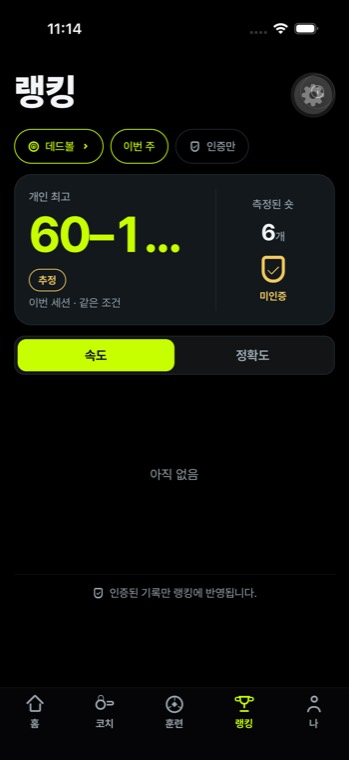
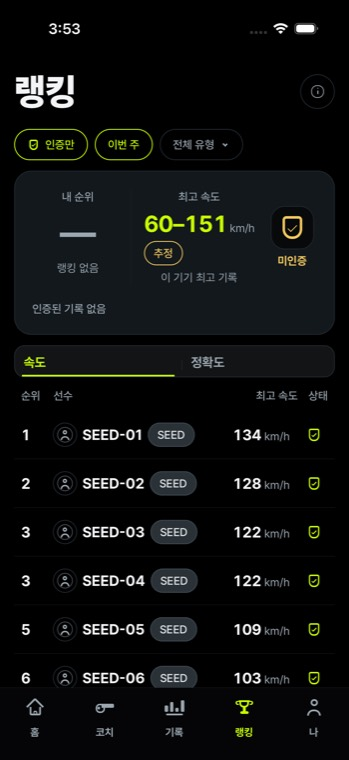
docs(stryke): final captures — seeded leaderboard live, static shot map proven, brand lockup
Build column refreshed to the 1 Sep 03:35-03:53 captures: the leaderboard now
renders nine seeded accounts from the real API with server tie-ranks verbatim
and a SEED label on every row; the shot map's camera stillness is pixel-proven
(0 of 929,500 scene pixels changed across four untouched seconds, and selection
moves the highlight while the camera holds). Adds the new brand lockup.

diff --git a/stryke/design.html b/stryke/design.html
@@ -57,7 +57,8 @@ footer{margin-top:60px;padding-top:18px;border-top:1px solid var(--line);color:v
 <p class="eyebrow">STRYKE · design targets vs the build</p>
 <h1>The <em>Design</em></h1>
 <p class="lede">The eight screens we are building toward, each next to what the app actually renders today. The gap is the point of the page — this is a working document, not a portfolio.</p>
-<p class="lede" style="font-size:13.5px;margin-top:14px">Build screenshots are unretouched simulator captures after <b>three rounds</b> of the design-QA loop, 31 Aug 2026. The score on each screen is that round's adversarial fidelity rating against its mockup. <b>Average 43/100, and not one screen passed.</b></p>
+<p class="lede" style="font-size:13.5px;margin-top:14px">Build screenshots refreshed <b>1 Sep 2026, 03:35&ndash;03:53</b> — after the clean-capture rescore (true average 49/100), a simulator-verified fix round, the static shot-map scene, and the leaderboard going live against the seeded API. Scores shown are the last adversarial ratings; captures are newer than the scores, so treat scores as a floor.</p>
+<div style="background:var(--panel);border:1px solid var(--line);border-radius:14px;padding:10px 14px;margin:14px 0"><img src="design/logo-lockup.jpg" alt="STRYKE lockup" style="display:block;width:100%;max-width:560px;height:auto;margin:0 auto"><p style="text-align:center;color:var(--mut);font-size:12px;margin:6px 0 2px">New brand lockup &mdash; the kit&rsquo;s ballistic trail and impact star promoted to the mark, set in Pretendard Black</p></div>
 
 <h2><span class="n">01</span>The colour system</h2>
 <p>Five colours, and that is the whole palette. The most important rule here is the last one: amber is not decoration.</p>
@@ -137,13 +138,14 @@ footer{margin-top:60px;padding-top:18px;border-top:1px solid var(--line);color:v
 </div>
 
 <div class="scr">
-<h3>06 · Rankings <span style="color:var(--mut);font-weight:400">랭킹</span> <span class="tag t-part">40/100</span></h3>
+<h3>06 · Rankings <span style="color:var(--mut);font-weight:400">랭킹</span> <span class="tag t-ok">live · seeded</span></h3>
 <div class="pair">
   <div class="shot"><div class="cap tgt">Target</div><img src="design/mock-06.jpg" alt="Rankings target"></div>
   <div class="shot"><div class="cap now">Build</div><img src="design/build-ranking.jpg" alt="Rankings build"></div>
 </div>
 <ul class="gaps">
-<li><b>상위 7% is cut and stays cut.</b> A percentile is a claim about a population; a rank is a fact about an ordered list. We can honestly say 12th. We cannot say top 7%.</li>
+<li><b>Now live against the real API.</b> Nine seeded accounts, server tie-ranks rendered verbatim (1, 2, 3, 3, 5&hellip;), every seeded row carrying a visible SEED label plus a footnote, my-rank showing 랭킹 없음 rather than an invented place. An unreachable server renders 연결 없음 with retry — deliberately different copy from an empty board.</li>
+<li><b>상위 7% is cut and stays cut.</b> A percentile is a claim about a population; a rank is a fact about an ordered list.</li>
 <li>The leaderboard is real, filled by seeded test accounts. Every seeded row is flagged in the API and must be <b>visibly labelled</b> in the UI — a demo entry that announces itself is a demo entry, the same row unlabelled is a fake record.</li>
 <li>Only verified records enter, which the target already states in its own footer (<span style="color:var(--fg)">인증된 기록만 랭킹에 반영됩니다</span>). In the schema that is <code>claim_point_speed</code> — a refused or band-only shot cannot be ranked.</li>
 <li>A user with no verified record has <b>no rank at all</b>, not last place.</li>
@@ -189,7 +191,7 @@ footer{margin-top:60px;padding-top:18px;border-top:1px solid var(--line);color:v
 </ul>
 
 <footer>
-STRYKE · design targets vs build, 31 Aug 2026 · Targets are the supplied mockups. Build screenshots are the running app on the simulator, unretouched, including the parts that do not match.
+STRYKE · design targets vs build, updated 1 Sep 2026 · Targets are the supplied mockups. Build screenshots are the running app on the simulator, unretouched, including the parts that do not match.
 </footer>
 </div>
 </body></html>
